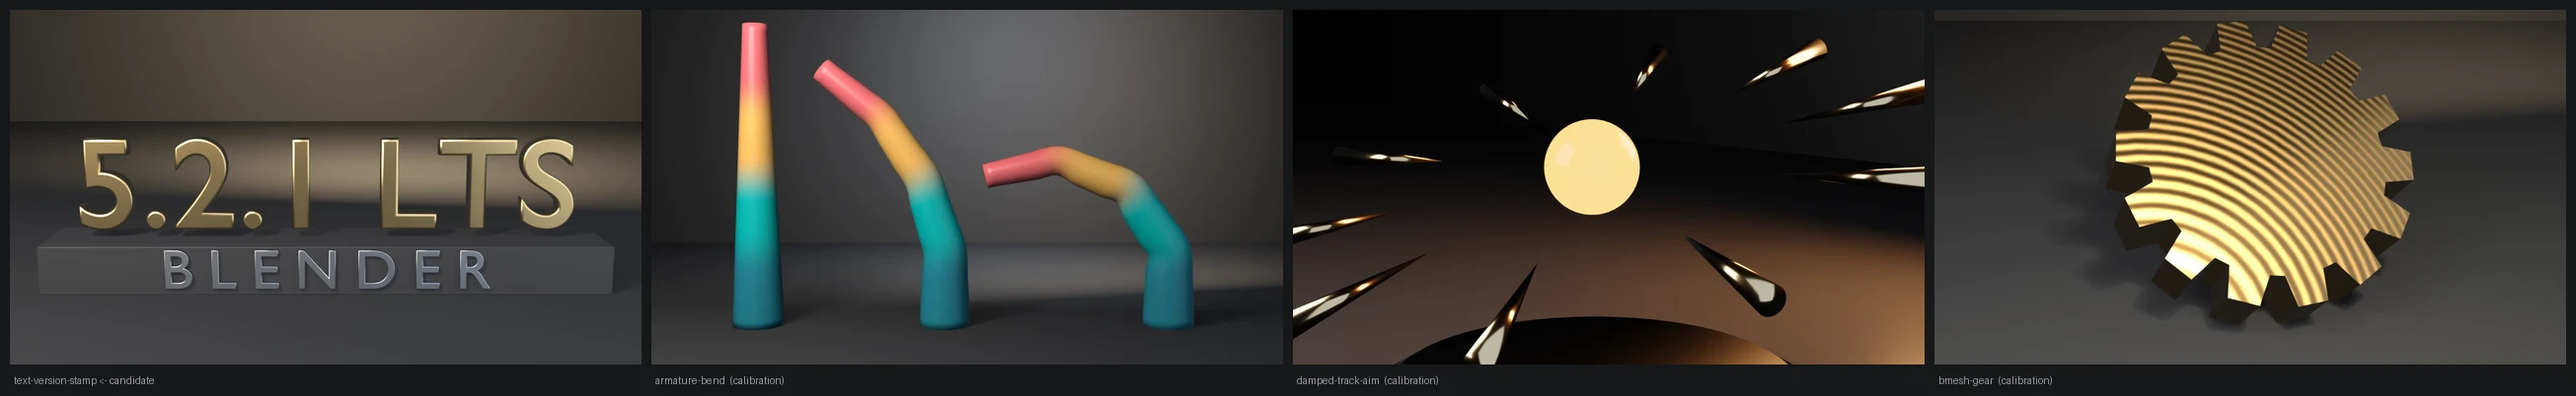
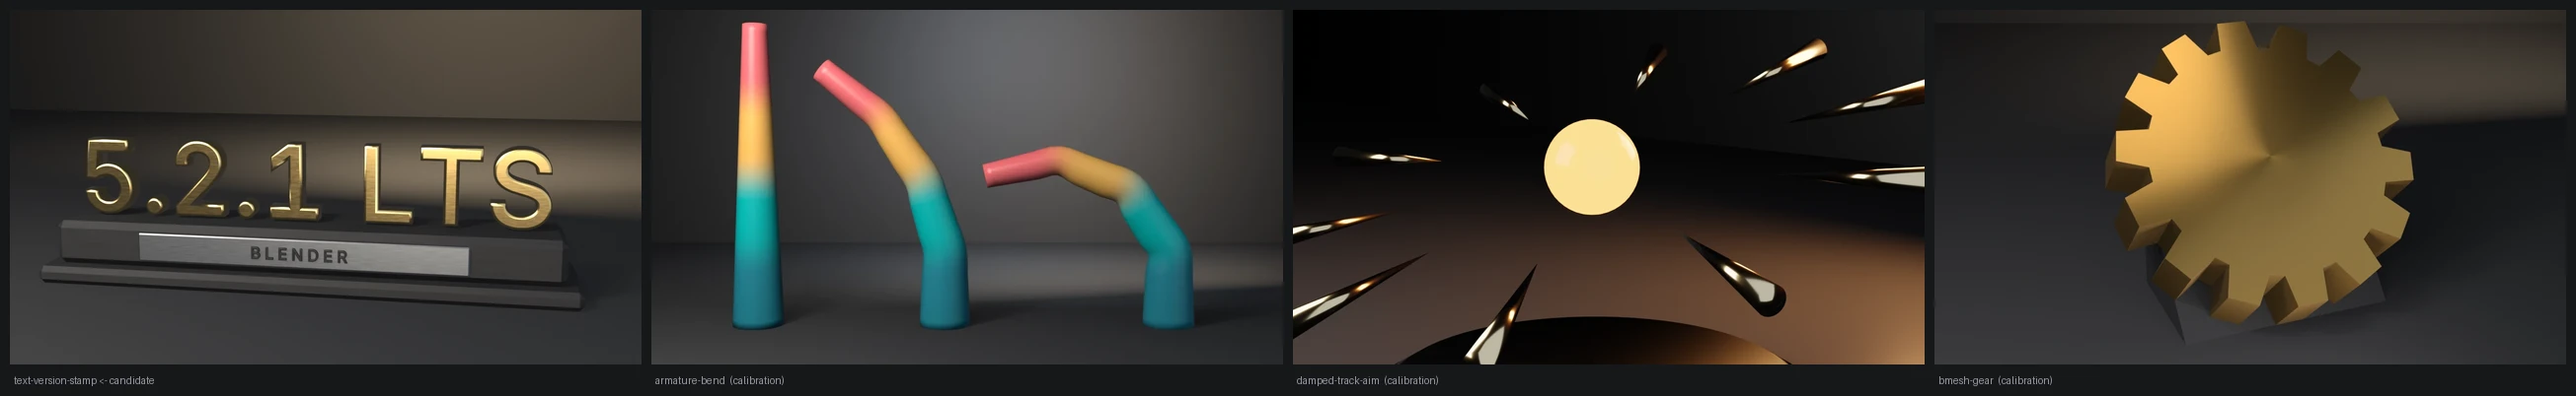
fix(examples): redesign text-version-stamp as gold Inter numerals on a stone plinth
The old still read "5.2.I LTS": the built-in Bfont's "1" is a bare stem.
The render path now sets the stamp in Inter, which Blender ships at
datafiles/fonts/Inter.woff2 on 4.5 LTS and 5.x (looked up through
bpy.utils.system_resource('DATAFILES'); exit 13 if missing), so the numeral
carries its flag. The check still asserts the built-in Bfont, because the
swap happens only after every check passes.

The staging is redesigned too: a two-tier plinth of dark honed stone with 45°
chamfers, a brushed-steel nameplate on its front with the BLENDER caption
inked on it, and polished gold numerals with brushed roughness variation.
A card light behind the camera gives the gold faces something to mirror,
where they previously reflected the dark studio. Fill, rim and wedge were
retuned toward the calibration stage.

Evidence (live runs, local):
- .scratch/blender-5.2.1-windows-x64/blender.exe (Blender 5.2.1 LTS):
  check-only exit 0, body='5.2.1 LTS' solid z-extent=0.1600 faces=4401.
  --wrong-body exits 4 (body='not-a-version').
- .scratch/blender-4.5.11-windows-x64/blender.exe (Blender 4.5.11 LTS):
  check-only exit 0, body='4.5.11 LTS'. The --output render exits 0 (Inter
  loads), with framing fill x=0.737 and margins l=0.047 r=0.088 b=0.150 t=0.389.
- Framing on 5.2.1: fill x=0.741, margins l=0.047 r=0.088 b=0.150 t=0.356.
- Contact sheet (docs/gallery/contact-sheets/text-version-stamp-contact-sheet.webp):
  candidate luma 0.248 / stage 0.221 / warmth +0.085 / sat 0.142, against
[…]

Changed region(s): [[0.8069, 0.0597, 1.0, 0.9254], [0.0, 0.0, 0.2483, 0.806]]

diff --git a/examples/text-version-stamp/text_version_stamp.py b/examples/text-version-stamp/text_version_stamp.py
@@ -132,19 +132,46 @@ def eevee_engine_id():
     return 'BLENDER_EEVEE' if bpy.app.version >= (5, 0, 0) else 'BLENDER_EEVEE_NEXT'
 
 
+def bundled_font(name):
+    """Load a font Blender ships in datafiles/fonts (both 4.5 LTS and 5.x ship
+    Inter.woff2 and DejaVuSansMono.woff2). None if the install lacks it."""
+    base = bpy.utils.system_resource('DATAFILES')
+    path = os.path.join(base, "fonts", name) if base else ""
+    if not os.path.isfile(path):
+        return None
+    return bpy.data.fonts.load(path, check_existing=True)
+
+
 def render_still(obj, path, engine):
     scene = bpy.context.scene
     txt = obj.data
     txt.size = 1.0
     txt.space_character = 1.05
+    # Render only (the check above asserts the built-in Bfont): Bfont's "1"
+    # is a bare stem that reads as a capital I ("5.2.I LTS"). Inter, shipped
+    # with Blender, gives the numeral its flag.
+    inter = bundled_font("Inter.woff2")
+    if inter is None:
+        print("ERROR: bundled datafiles/fonts/Inter.woff2 not found", file=sys.stderr)
+        return 13
+    txt.font = inter
 
-    # brass stamp
-    mat = bpy.data.materials.new("Brass")
+    # polished gold stamp: warm base, low roughness with a faint brushed
+    # variation so the long faces carry a gradient instead of a flat slab
+    mat = bpy.data.materials.new("Gold")
     mat.use_nodes = True
-    bsdf = mat.node_tree.nodes["Principled BSDF"]
-    bsdf.inputs["Base Color"].default_value = (0.85, 0.62, 0.28, 1.0)
+    nt = mat.node_tree
+    bsdf = nt.nodes["Principled BSDF"]
+    bsdf.inputs["Base Color"].default_value = (0.95, 0.66, 0.26, 1.0)
     bsdf.inputs["Metallic"].default_value = 1.0
-    bsdf.inputs["Roughness"].default_value = 0.32
+    noise = nt.nodes.new("ShaderNodeTexNoise")
+    noise.inputs["Scale"].default_value = 60.0
+    noise.inputs["Detail"].default_value = 4.0
+    rmap = nt.nodes.new("ShaderNodeMapRange")
+    rmap.inputs["To Min"].default_value = 0.16
+    rmap.inputs["To Max"].default_value = 0.30
+    nt.links.new(noise.outputs["Fac"], rmap.inputs["Value"])
+    nt.links.new(rmap.outputs["Result"], bsdf.inputs["Roughness"])
     txt.materials.append(mat)
 
     # stand the text upright, feet on the floor, scaled to a constant width
@@ -156,53 +183,100 @@ def render_still(obj, path, engine):
     width = max(v.co.x for v in me.vertices) - min(v.co.x for v in me.vertices)
     height = max(v.co.y for v in me.vertices) - min(v.co.y for v in me.vertices)
     ev.to_mesh_clear()
-    s = 3.1 / width
+    s = 3.2 / width
     obj.scale = (s, s, s)
     obj.rotation_euler = (math.radians(90), 0.0, 0.0)
     # The stamp stands on a dark plinth, and the caption is set into the
     # plinth's front face. It used to float in the air above the stamp,
     # with a glowing bar along the bottom edge of the frame.
-    plinth_h = 0.30
-    plinth_d = 0.56
-    obj.location = (0.0, 0.0, plinth_h + s * height / 2 + 0.02)
+    # A two-tier plinth with 45-degree chamfers: a wide foot, and an upper
+    # tier whose front face carries a brushed-steel nameplate with the
+    # caption standing proud of it. The gold is reserved for the version; the
+    # plinth is dark stone and the plate and caption are steel.
+    import bmesh
+    foot_h, top_h = 0.12, 0.30
+    plinth_h = foot_h + top_h
+    top_d = 0.62
+    obj.location = (0.0, 0.0, plinth_h + s * height / 2 + 0.01)
 
-    # small steel caption above, also a TextCurve
+    def chamfer_box(name, size, loc, mat, chamfer):
+        me = bpy.data.meshes.new(name)
+        bm = bmesh.new()
+        try:
+            bmesh.ops.create_cube(bm, size=1.0)
+            for v in bm.verts:
+                v.co = (v.co.x * size[0], v.co.y * size[1], v.co.z * size[2])
+            bmesh.ops.bevel(bm, geom=list(bm.edges), offset=chamfer, segments=1,
+                            profile=0.5, affect="EDGES", clamp_overlap=True)
+            bm.to_mesh(me)
+        finally:
+            bm.free()
+        me.materials.append(mat)
+        ob = bpy.data.objects.new(name, me)
+        ob.location = loc
+        scene.collection.objects.link(ob)
+        return ob
+
+    pmat = bpy.data.materials.new("Stone")
+    pmat.use_nodes = True
+    pnt = pmat.node_tree
+    pb = pnt.nodes["Principled BSDF"]
+    pb.inputs["Roughness"].default_value = 0.62
+    # honed dark stone: faint mottling, never a flat slot
+    pn = pnt.nodes.new("ShaderNodeTexNoise")
+    pn.inputs["Scale"].default_value = 9.0
+    pn.inputs["Detail"].default_value = 8.0
+    pr = pnt.nodes.new("ShaderNodeValToRGB")
+    pr.color_ramp.elements[0].color = (0.011, 0.011, 0.013, 1.0)
+    pr.color_ramp.elements[1].color = (0.028, 0.027, 0.029, 1.0)
+    pnt.links.new(pn.outputs["Fac"], pr.inputs["Fac"])
+    pnt.links.new(pr.outputs["Color"], pb.inputs["Base Color"])
+
+    smat = bpy.data.materials.new("Steel")
+    smat.use_nodes = True
+    snt = smat.node_tree
+    sb = snt.nodes["Principled BSDF"]
+    sb.inputs["Base Color"].default_value = (0.70, 0.72, 0.76, 1.0)
+    sb.inputs["Metallic"].default_value = 1.0
+    # brushed along X: noise stretched hard in X drives the roughness
+    stc = snt.nodes.new("ShaderNodeTexCoord")
+    smap = snt.nodes.new("ShaderNodeMapping")
+    smap.inputs["Scale"].default_value = (2.0, 120.0, 120.0)
+    sn = snt.nodes.new("ShaderNodeTexNoise")
+    sn.inputs["Detail"].default_value = 6.0
+    sr = snt.nodes.new("ShaderNodeMapRange")
+    sr.inputs["To Min"].default_value = 0.22
+    sr.inputs["To Max"].default_value = 0.42
+    snt.links.new(stc.outputs["Object"], smap.inputs["Vector"])
+    snt.links.new(smap.outputs["Vector"], sn.inputs["Vector"])
+    snt.links.new(sn.outputs["Fac"], sr.inputs["Value"])
+    snt.links.new(sr.outputs["Result"], sb.inputs["Roughness"])
+
+    foot = chamfer_box("PlinthFoot", (3.62, top_d + 0.20, foot_h), (0.0, 0.0, foot_h / 2),
+                       pmat, 0.035)
+    top = chamfer_box("PlinthTop", (3.42, top_d, top_h), (0.0, 0.0, foot_h + top_h / 2),
+                      pmat, 0.045)
+    plate = chamfer_box("Nameplate", (2.2, 0.03, 0.19),
+                        (0.0, -top_d / 2 - 0.008, foot_h + top_h / 2), smat, 0.008)
+
+    # dark inked caption on the steel plate, also a TextCurve
     cap = bpy.data.curves.new("Caption", type='FONT')
     cap.body = "B L E N D E R"
     cap.align_x = 'CENTER'; cap.align_y = 'CENTER'
-    cap.size = 0.34; cap.extrude = 0.012; cap.bevel_depth = 0.004
-    cmat = bpy.data.materials.new("Steel")
+    cap.size = 0.15; cap.extrude = 0.008; cap.bevel_depth = 0.003
+    cap.font = inter
+    cmat = bpy.data.materials.new("CaptionInk")
     cmat.use_nodes = True
     cb = cmat.node_tree.nodes["Principled BSDF"]
-    cb.inputs["Base Color"].default_value = (0.62, 0.66, 0.72, 1.0)
-    cb.inputs["Metallic"].default_value = 1.0
-    cb.inputs["Roughness"].default_value = 0.4
+    cb.inputs["Base Color"].default_value = (0.03, 0.03, 0.035, 1.0)
+    cb.inputs["Metallic"].default_value = 0.2
+    cb.inputs["Roughness"].default_value = 0.35
     cap.materials.append(cmat)
     cap_obj = bpy.data.objects.new("Caption", cap)
     cap_obj.rotation_euler = (math.radians(90), 0.0, 0.0)
-    cap_obj.location = (0.0, -plinth_d / 2 - cap.extrude, plinth_h / 2)
+    cap_obj.location = (0.0, -top_d / 2 - 0.023 - cap.extrude + 0.002, foot_h + top_h / 2)
     scene.collection.objects.link(cap_obj)
-
-    import bmesh
-    plinth_me = bpy.data.meshes.new("Plinth")
-    bm = bmesh.new()
-    try:
-        bmesh.ops.create_cube(bm, size=1.0)
-        bmesh.ops.bevel(bm, geom=list(bm.edges), offset=0.012, segments=2,
-                        profile=0.5, affect="EDGES", clamp_overlap=True)
-        bm.to_mesh(plinth_me)
-    finally:
-        bm.free()
-    pmat = bpy.data.materials.new("Plinth")
-    pmat.use_nodes = True
-    pb = pmat.node_tree.nodes["Principled BSDF"]
-    pb.inputs["Base Color"].default_value = (0.045, 0.045, 0.05, 1.0)
-    pb.inputs["Roughness"].default_value = 0.45
-    plinth_me.materials.append(pmat)
-    plinth = bpy.data.objects.new("Plinth", plinth_me)
-    plinth.scale = (3.5, plinth_d, plinth_h)
-    plinth.location = (0.0, 0.0, plinth_h / 2)
-    scene.collection.objects.link(plinth)
+    plinth = [foot, top, plate]
 
     # dark studio: floor + back wall
     floor_me = bpy.data.meshes.new("Floor")
@@ -239,9 +313,14 @@ def render_still(obj, path, engine):
         scene.collection.objects.link(ob)
 
     # brass reads on reflections: warm key, broad cool fill, hard warm rim
-    light("Key", (-3.2, -4.8, 4.6), 850.0, 6.0, (1.0, 0.95, 0.86), (52, 0, -32))
-    light("Fill", (4.6, -3.6, 2.4), 320.0, 8.0, (0.75, 0.84, 1.0), (66, 0, 48))
-    light("Rim", (0.8, 4.2, 3.4), 900.0, 3.0, (1.0, 0.75, 0.45), (-65, 0, 170))
+    light("Key", (-3.2, -4.8, 4.6), 700.0, 6.0, (1.0, 0.95, 0.86), (52, 0, -32))
+    light("Fill", (4.6, -3.6, 2.4), 150.0, 8.0, (0.75, 0.84, 1.0), (66, 0, 48))
+    light("Rim", (0.8, 4.2, 3.4), 520.0, 3.0, (1.0, 0.75, 0.45), (-65, 0, 170))
+    # a broad card behind the camera facing the stamp: the gold's front faces
+    # mirror it as a clean gradient instead of the dark studio
+    light("Card", (0.9, -8.6, 1.9), 260.0, 4.0, (1.0, 0.9, 0.74), (84, 0, 6))
+    # warm wedge raking the back wall (docs/VISUAL-STYLE.md)
+    light("Wedge", (2.6, 5.0, 3.8), 260.0, 6.0, (1.0, 0.72, 0.45), (-70, 0, 195))
 
     cam_data = bpy.data.cameras.new("Cam")
     cam_data.lens = 50.0
@@ -249,10 +328,10 @@ def render_still(obj, path, engine):
     # Reframed: the old (0,-8.5,1.15) fixed 86.5° pitch left the stamp at
     # 0.663 fill with a dead lower third; moved in with an aim on the stamp's
     # vertical center so text, caption, and underline bar balance the frame.
-    cam.location = (0.0, -5.45, 1.55)
+    cam.location = (1.15, -5.75, 1.75)
     scene.collection.objects.link(cam)
     aim = bpy.data.objects.new("Aim", None)
-    aim.location = (0.0, 0.0, 0.62)
+    aim.location = (0.12, 0.0, 0.66)
     scene.collection.objects.link(aim)
     con = cam.constraints.new('TRACK_TO')
     con.target = aim
@@ -280,7 +359,7 @@ def render_still(obj, path, engine):
     fcode = gallery_framing.check_framing(
         scene, cam,
         hero=[obj],
-        elements=[obj, cap_obj, plinth],
+        elements=[obj, cap_obj, *plinth],
         stage=[floor, wall],
     )
     if fcode:

diff --git a/examples/text-version-stamp/README.md b/examples/text-version-stamp/README.md
@@ -24,11 +24,19 @@ on every LTS build; branch on the `bpy.app.version` tuple instead.
 
 ## Staging
 
-The numerals stand on a dark plinth, with the steel caption set into the
-plinth's front face. The caption used to float in the air above the
-stamp, and an emissive bar lay along the bottom edge of the frame. The
-still renders under the Standard view transform on the house stage.
-Render path only; the checked text body and its extents are unchanged.
+The polished gold numerals stand on a two-tier chamfered plinth of dark
+honed stone. A brushed-steel nameplate on its front face carries the
+BLENDER caption, so gold is reserved for the version and steel for the
+plate. A card light behind the camera gives the gold faces something to
+mirror. The still renders under the Standard view transform on the house
+stage.
+
+The render sets the stamp in **Inter**, which Blender ships at
+`datafiles/fonts/Inter.woff2` on 4.5 LTS and 5.x alike (found through
+`bpy.utils.system_resource('DATAFILES')`). The built-in Bfont's "1" is a
+bare stem, so the old still read "5.2.I LTS". The check still asserts the
+built-in Bfont: the font swap happens on the render path only, after every
+check has passed, and the checked text body and its extents are unchanged.
 
 ## Run
 
@@ -65,6 +73,7 @@ against it. `10` is the shared framing helper.
 | 8 | Mesh survived `to_mesh_clear()` |
 | 9 | `--output` produced no file |
 | 10 | Gallery framing violation |
+| 13 | `--output`: bundled `datafiles/fonts/Inter.woff2` not found |
 
 The `blender-smoke` workflow runs the check on Blender 5.2 LTS and 4.5 LTS
 (5.1 on the weekly cron, the `needs-5.1` PR label, or manual dispatch).

diff --git a/README.md b/README.md
@@ -430,7 +430,7 @@ topology 1044 verts / 1028 faces.
 </tr>
 <tr>
 <td width="46%" valign="middle">
-<a href="examples/text-version-stamp/"><img src="examples/text-version-stamp/preview.webp" alt="Text version stamp: beveled brass version numerals standing on a dark plinth with a steel BLENDER caption set into its face — the body text is the live bpy.app.version_string" /></a>
+<a href="examples/text-version-stamp/"><img src="examples/text-version-stamp/preview.webp" alt="Text version stamp: beveled gold version numerals standing on a chamfered dark stone plinth with a BLENDER caption on a brushed-steel nameplate — the body text is the live bpy.app.version_string" /></a>
 </td>
 <td valign="middle">
 
